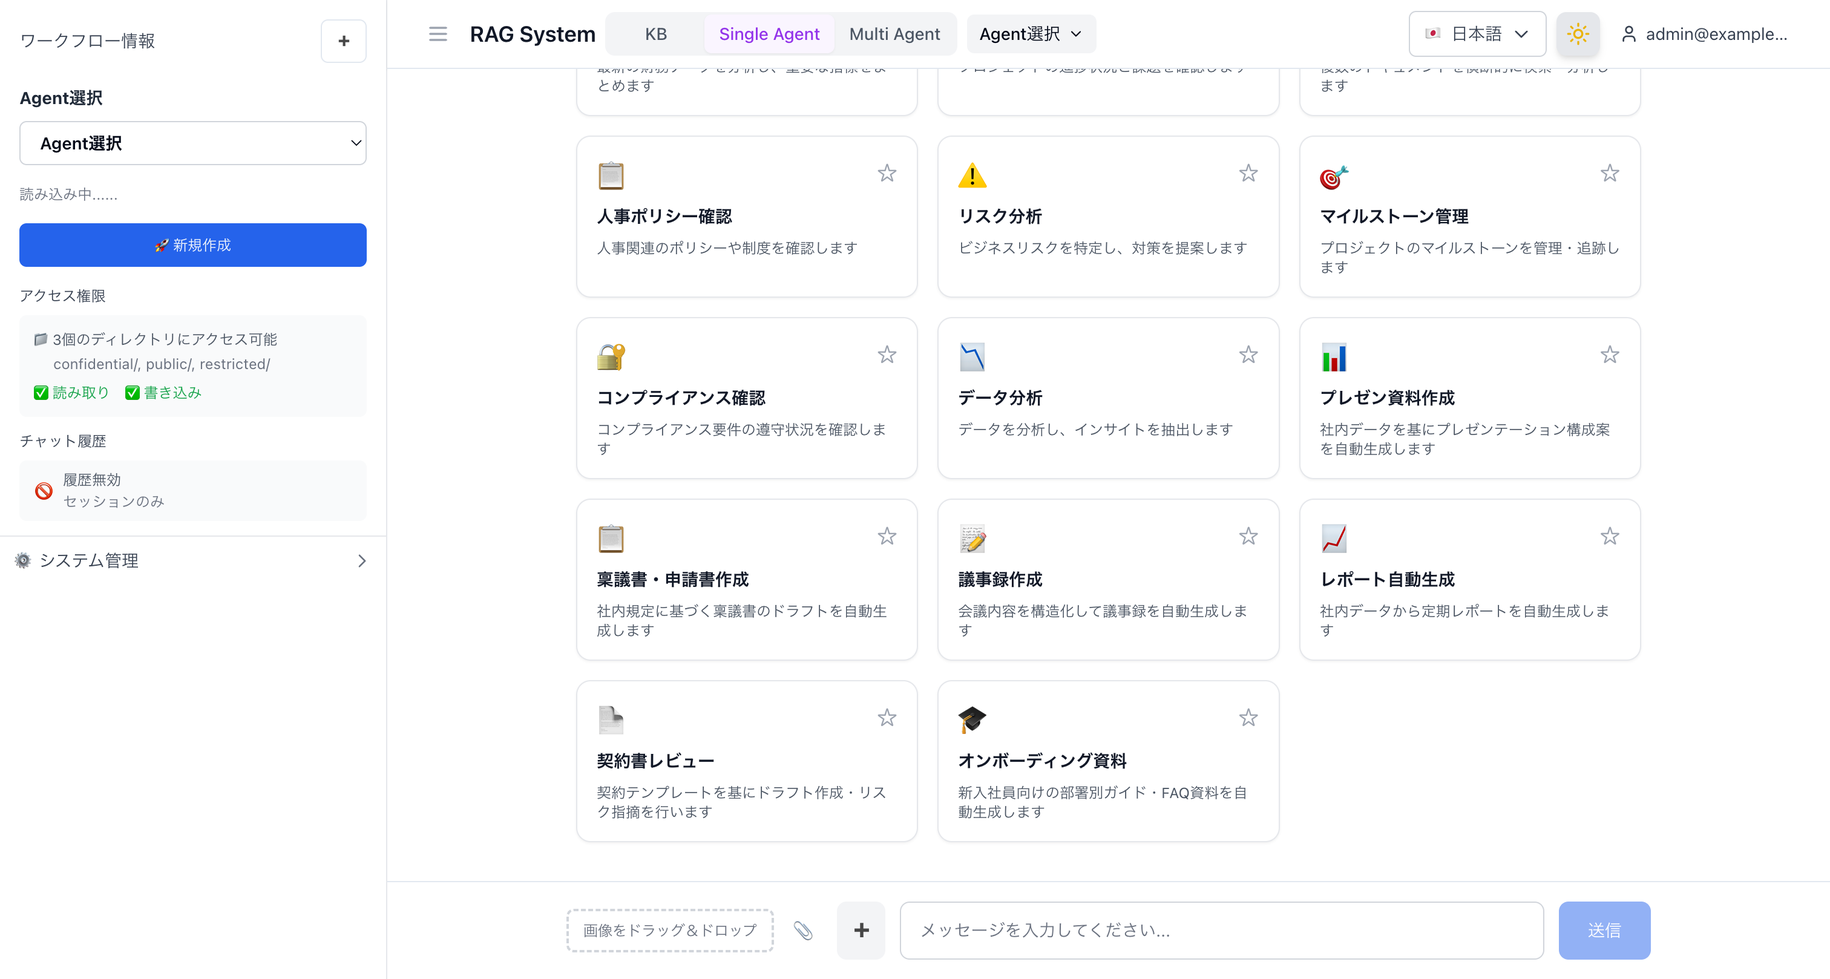
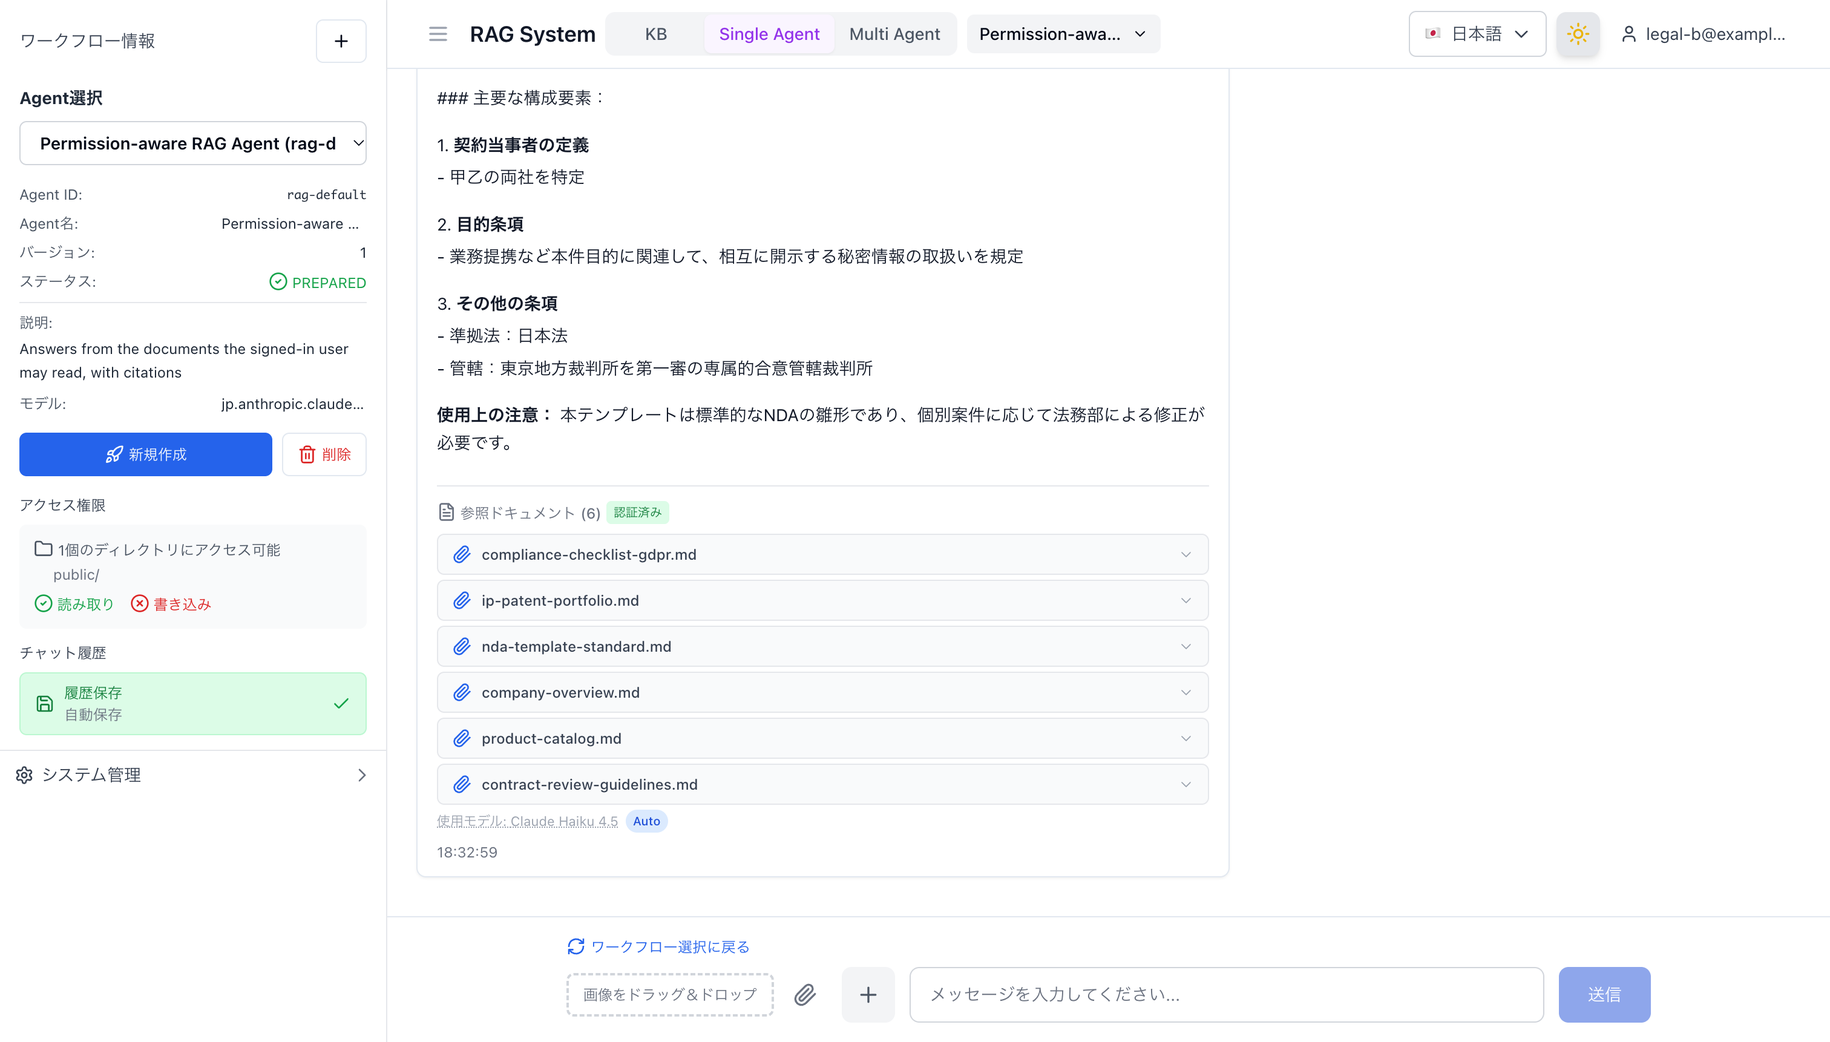
fix(agent): keep denied docs from the model; fix model IDs

diff --git a/docker/nextjs/src/lib/agent-backend/agentcore.ts b/docker/nextjs/src/lib/agent-backend/agentcore.ts
@@ -22,9 +22,10 @@ import {
   ScanCommand,
 } from '@aws-sdk/lib-dynamodb';
 import type { AgentTeamConfig, MultiAgentTraceResult } from '@/types/multi-agent';
+import { INFERENCE_PROFILE_MAP, resolveModelId } from '@/config/model-defaults';
 
 const REGION = process.env.BEDROCK_REGION || process.env.AWS_REGION || 'ap-northeast-1';
-export const DEFAULT_MODEL = 'apac.anthropic.claude-haiku-4-5-20251001-v1:0';
+export const DEFAULT_MODEL = 'jp.anthropic.claude-haiku-4-5-20251001-v1:0';
 const MAX_NAME = 100;
 const MAX_DESCRIPTION = 500;
 const MAX_INSTRUCTION = 8000;
@@ -234,7 +235,7 @@ export async function invokeAgent(params: {
       agent: {
         agentName: definition.agentName,
         instruction: definition.instruction,
-        foundationModel: definition.foundationModel,
+        foundationModel: runtimeModelId(definition.foundationModel),
         tools: definition.tools,
       },
       message: params.message,
@@ -243,6 +244,17 @@ export async function invokeAgent(params: {
     sessionId,
   );
   return { definition, result, sessionId };
+}
+
+/**
+ * The model ID the Runtime calls. Definitions keep what the user picked; templates and the
+ * editor offer base IDs (`anthropic.claude-haiku-4-5-...`), which have no on-demand
+ * throughput in ap-northeast-1 and fail with "The provided model identifier is invalid".
+ * Deprecated IDs are redirected first, then base IDs are mapped to their inference profile.
+ */
+export function runtimeModelId(id: string | undefined): string {
+  const { modelId } = resolveModelId(id || DEFAULT_MODEL);
+  return INFERENCE_PROFILE_MAP[modelId] ?? modelId;
 }
 
 async function defaultDefinition(): Promise<AgentDefinition | null> {
@@ -261,7 +273,7 @@ export async function invokeTeam(params: {
     agentName: c.agentName,
     role: c.role,
     instruction: c.instruction,
-    foundationModel: c.foundationModel || DEFAULT_MODEL,
+    foundationModel: runtimeModelId(c.foundationModel),
     tools: [...AVAILABLE_TOOLS],
   }));
   const result = await invokeRuntime(

diff --git a/docker/nextjs/src/__tests__/agent-backend/agentcore.test.ts b/docker/nextjs/src/__tests__/agent-backend/agentcore.test.ts
@@ -14,6 +14,7 @@ import {
   invokeAgent,
   invokeTeam,
   normalizeTools,
+  runtimeModelId,
   runtimeSessionId,
   toAgent,
   toSummary,
@@ -49,7 +50,7 @@ const stored: AgentDefinition = {
   agentId: 'agent-1',
   agentName: 'Legal reviewer',
   instruction: 'Review contracts.',
-  foundationModel: 'apac.anthropic.claude-haiku-4-5-20251001-v1:0',
+  foundationModel: 'jp.anthropic.claude-haiku-4-5-20251001-v1:0',
   tools: ['PermissionAwareSearch'],
   agentStatus: 'PREPARED',
   createdAt: '2026-11-14T00:00:00.000Z',
@@ -105,6 +106,11 @@ describe('definitions', () => {
 });
 
 describe('runtime', () => {
+  it('maps base model IDs from templates to the inference profile the runtime can call', () => {
+    expect(runtimeModelId('anthropic.claude-haiku-4-5-20251001-v1:0')).toBe('jp.anthropic.claude-haiku-4-5-20251001-v1:0');
+    expect(runtimeModelId('global.anthropic.claude-haiku-4-5-20251001-v1:0')).toBe('global.anthropic.claude-haiku-4-5-20251001-v1:0');
+    expect(runtimeModelId(undefined)).toBe('jp.anthropic.claude-haiku-4-5-20251001-v1:0');
+  });
   it('pads a session ID to the 33 characters AgentCore requires', () => {
     expect(runtimeSessionId('s', 'u').length).toBeGreaterThanOrEqual(33);
     const long = 'x'.repeat(40);

diff --git a/lambda/agent-tools/permission-search/__tests__/handler.test.ts b/lambda/agent-tools/permission-search/__tests__/handler.test.ts
@@ -74,6 +74,18 @@ describe('handler', () => {
     expect(kb.commandCalls(RetrieveCommand)[0].args[0].input.retrievalConfiguration?.vectorSearchConfiguration?.numberOfResults).toBe(15);
   });
 
+  it('does not reveal anything about denied documents (the response goes to the model)', async () => {
+    kb.on(RetrieveCommand).resolves({
+      retrievalResults: [doc('public.md', ['S-1-1-0']), doc('hr-salary-table.md', ['S-1-5-21-1-1200'])],
+    });
+    ddb.on(GetItemCommand).resolves({ Item: { userId: { S: 'u1' }, userSID: { S: 'S-1-1-0' } } });
+    const out = await handler({ query: 'salary', userId: 'u1' });
+    const serialized = JSON.stringify(out);
+    expect(serialized).not.toContain('hr-salary-table');
+    expect(serialized).not.toContain('S-1-5-21-1-1200');
+    expect(out.filterLog).toEqual({ filterMethod: 'SID_MATCHING' });
+  });
+
   it('denies everything for a user without an access record', async () => {
     kb.on(RetrieveCommand).resolves({ retrievalResults: [doc('public.md', ['S-1-1-0'])] });
     ddb.on(GetItemCommand).resolves({});

diff --git a/lib/constructs/agentcore-agents-construct.ts b/lib/constructs/agentcore-agents-construct.ts
@@ -49,7 +49,7 @@ export const SEARCH_TARGET_NAME = 'permission-search';
 export const SEARCH_TOOL_NAME = 'permission_aware_search';
 export const DEFAULT_AGENT_ID = 'rag-default';
 export const DEFAULT_TEAM_ID = 'rag-default-team';
-const DEFAULT_MODEL = 'apac.anthropic.claude-haiku-4-5-20251001-v1:0';
+const DEFAULT_MODEL = 'jp.anthropic.claude-haiku-4-5-20251001-v1:0';
 
 export class AgentCoreAgentsConstruct extends Construct {
   public readonly runtime: agentcore.Runtime;
@@ -153,7 +153,7 @@ export class AgentCoreAgentsConstruct extends Construct {
       actions: ['bedrock:InvokeModel', 'bedrock:InvokeModelWithResponseStream'],
       resources: [
         'arn:aws:bedrock:*::foundation-model/*',
-        // Cross-region inference profiles (apac.*, jp.*) resolve to models in other regions.
+        // Cross-region inference profiles (jp.*, apac.*, global.*) resolve to models in other regions.
         'arn:aws:bedrock:*:*:inference-profile/*',
       ],
     }));

diff --git a/lambda/agent-tools/permission-search/index.ts b/lambda/agent-tools/permission-search/index.ts
@@ -37,7 +37,8 @@ export interface SearchEvent {
 export interface SearchResult {
   results: { fileName: string; s3Uri: string; content: string; score?: number; rank: number }[];
   count: number;
-  filterLog: Record<string, unknown>;
+  /** Only `filterMethod`: nothing about denied documents reaches the model. */
+  filterLog: { filterMethod?: unknown; reason?: string };
   error?: string;
 }
 
@@ -99,6 +100,9 @@ export async function handler(event: SearchEvent): Promise<SearchResult> {
       rank: i + 1,
     })),
     count: limited.length,
-    filterLog,
+    // Only the method. The full filterLog lists every retrieved document, denied ones
+    // included (fileName, documentSIDs), and this object goes to the model: returning it
+    // would tell the model the names of documents the user may not read.
+    filterLog: { filterMethod: filterLog.filterMethod },
   };
 }

diff --git a/docker/agentcore-agent/tests/test_agent.py b/docker/agentcore-agent/tests/test_agent.py
@@ -99,6 +99,22 @@ class TestPermissionSearch:
             and search.calls[0]["filterMethod"] == "SID_MATCHING"
         )
 
+    def test_filter_details_never_reach_the_model(self):
+        # A tool response carrying denied document names must not pass them on.
+        client = FakeClient(
+            {
+                "results": [{"fileName": "allowed.md"}],
+                "count": 1,
+                "filterLog": {
+                    "filterMethod": "SID_MATCHING",
+                    "details": [{"fileName": "denied-secret.md", "matched": False}],
+                },
+            }
+        )
+        text = PermissionSearch(client, "legal-a@example.com").search("q")
+        assert "denied-secret.md" not in text
+        assert json.loads(text) == {"results": [{"fileName": "allowed.md"}], "count": 1}
+
     def test_the_model_facing_tool_has_no_user_parameter(self):
         search_tool = agents.make_search_tool(lambda q, n: "")
         properties = search_tool.tool_spec["inputSchema"]["json"]["properties"]

diff --git a/docker/agentcore-agent/gateway_client.py b/docker/agentcore-agent/gateway_client.py
@@ -113,7 +113,7 @@ class PermissionSearch:
         try:
             parsed = json.loads(text)
         except ValueError:
-            parsed = {}
+            return text
         self.calls.append(
             {
                 "query": query,
@@ -122,4 +122,12 @@ class PermissionSearch:
                 "filterMethod": (parsed.get("filterLog") or {}).get("filterMethod"),
             }
         )
-        return text
+        # The model gets the allowed documents and their count, nothing else: if the tool
+        # ever returned filter details again, they would not reach the model.
+        visible = {
+            "results": parsed.get("results", []),
+            "count": parsed.get("count", 0),
+        }
+        if parsed.get("error"):
+            visible["error"] = parsed["error"]
+        return json.dumps(visible, ensure_ascii=False)

diff --git a/docker/agentcore-agent/agents.py b/docker/agentcore-agent/agents.py
@@ -18,7 +18,7 @@ from typing import Any
 from strands import Agent, tool
 from strands.models import BedrockModel
 
-DEFAULT_MODEL = "apac.anthropic.claude-haiku-4-5-20251001-v1:0"
+DEFAULT_MODEL = "jp.anthropic.claude-haiku-4-5-20251001-v1:0"
 MAX_INSTRUCTION_CHARS = 8000
 
 SHARED_RULES = (

diff --git a/AGENTS.md b/AGENTS.md
@@ -159,7 +159,7 @@ bash scripts/verify-docker-image.sh permission-aware-rag-webapp:latest
 - **Permission metadata**: `.metadata.json` files are generated by service role only — SFTP users have IAM Deny for `*.metadata.json`
 - **Fail-closed RAG**: Documents without trusted metadata are excluded from retrieval
 - **AgentCore Runtime**: the agent Runtime (`docker/agentcore-agent`) is created by CDK (`AWS::BedrockAgentCore::Runtime`, built from the local Dockerfile as an arm64 asset). The Pipecat voice agent (`docker/pipecat-agent`) is still deployed via CLI/SDK
-- **Agent permission boundary**: the agents search through the `permission-search` Lambda behind a dedicated agent-tools Gateway (AWS_IAM, only the Runtime role may call it). The Lambda bundles `docker/nextjs/src/lib/rag-pipeline/sid-filter.ts`, so the web app and the agents share one SID filter. The model-visible tool has only `query` / `max_results`; `userId` comes from the session cookie in the web app, and a missing `userId` returns no documents (Fail-Closed). Do not add `userId` to the tool the model sees
+- **Agent permission boundary**: the agents search through the `permission-search` Lambda behind a dedicated agent-tools Gateway (AWS_IAM, only the Runtime role may call it). The Lambda bundles `docker/nextjs/src/lib/rag-pipeline/sid-filter.ts`, so the web app and the agents share one SID filter. The model-visible tool has only `query` / `max_results`; `userId` comes from the session cookie in the web app, and a missing `userId` returns no documents (Fail-Closed). Do not add `userId` to the tool the model sees. The tool response goes to the model, so it must not carry `sid-filter.ts`'s full `filterLog` (it lists denied documents by file name and SID); the Lambda returns only `filterMethod`, and `gateway_client.py` passes on only `results` and `count`. **[verified 2026-11-14 / ap-northeast-1]** the full log made the agent name two files the user could not read
 - **AgentCore Web Search (Option A — us-east-1 stack)**: Web Search Tool runs in **us-east-1 only**. When `enableWebSearch=true` (requires `enableAgentCoreGateway=true`), a dedicated `DemoWebSearchGatewayStack` is synthesized in us-east-1 using `crossRegionReferences`, creating the Gateway + Web Search target via `AwsCustomResource` with the **[verified 2026-06-18 / us-east-1]** connector shape (`mcp.connector.source.connectorId: "web-search"`, PoC §9.1). The Gateway URL is exported cross-region and injected into the ap-northeast-1 WebApp Lambda as `WEB_SEARCH_GATEWAY_URL` (mechanism C). The ap-northeast-1 `AgentCoreGateway` construct still emits a synth warning and does **not** host the target (region mismatch). Mechanism A (Claude Platform `callWithWebSearch` via `ENABLE_WEB_SEARCH`) remains region-agnostic and independent. The Option B PoC/teardown scripts lived in a local workspace and are **not shipped in this repository**; reproduce with `npx cdk deploy '*-WebSearchGateway' -c enableWebSearch=true -c enableAgentCoreGateway=true`.
 - **Policy+Guardrails Cedar (CORRECTED)**: The Policy Engine ships a baseline `permit(principal, action, resource)` for LOG_ONLY observation (verified Cedar syntax). The earlier `context.guardrails.evaluation` policy was fabricated and removed — that field does not exist; a non-matching permit + Cedar default-deny would deny ALL tool calls in ENFORCE. Author least-privilege per-tool Cedar policies (`AgentCore::Action::"Target___tool"`) and attach Guardrails via documented `policyConfiguration` before ENFORCE
 - **AgentCore Optimization (Preview)**: **[hypothesis]** `createConfigurationBundle` params via `AwsCustomResource` are **unverified** — inferred from the SDK shape, not confirmed against the service — opt-in only (`enableAgentOptimization=false` default). CDK provisions Config Bundle + IAM role; Recommendations/A/B tests run via agentcore CLI/SDK
@@ -437,6 +437,7 @@ Detects: internal IPs (10.x/172.16-31.x/192.168.x), AWS Account IDs, internal ho
 | cdk-nag `Found errors` blocks deploy | IAM wildcard without NagSuppression | Add NagSuppressions with `appliesTo` and documented reason. See demo-ai-stack.ts §cdk-nag suppressions |
 | Agent run returns 401 / 403 (agentcore) | No `session-token` cookie, or a request body `userId` that differs from the session user | The web app takes the user from the session only. Sign in again; do not pass another user's ID |
 | Agent created but runs fail with AccessDenied on InvokeAgentRuntime | WebApp Lambda role lacks `bedrock-agentcore:InvokeAgentRuntime` on the Runtime ARN **and** `<arn>/runtime-endpoint/*` | Both resources are granted by `demo-webapp-stack.ts`; check that `AGENT_RUNTIME_ARN` points at the deployed Runtime |
+| Agent run fails with `The provided model identifier is invalid` (agentcore) | A base model ID (templates use `anthropic.claude-haiku-4-5-...`) or an `apac.` profile that does not exist for the model in ap-northeast-1 | `runtimeModelId()` in `lib/agent-backend/agentcore.ts` maps IDs through `INFERENCE_PROFILE_MAP` at run time; add new models to that map. The default is `jp.anthropic.claude-haiku-4-5-20251001-v1:0` |
 | Agent Alias points to old model version (bedrock-agents) | Manual alias deletion causes CFn state drift | Use `update_agent_alias(routingConfiguration=[])` to auto-create new version |
 | Multi-Agent Collaborator uses old model (bedrock-agents) | Collaborator Alias routing pinned to v1 | Clear routing with `routingConfiguration=[]` (auto-creates latest version) |
 | CDK deploy fails with deleted Alias | CFn reads attributes of physically deleted aliases | Never manually delete CFn-managed aliases; use CDK for lifecycle |

diff --git a/CHANGELOG.md b/CHANGELOG.md
@@ -12,7 +12,7 @@ and this project adheres to [Semantic Versioning](https://semver.org/spec/v2.0.0
 - **`demo-data/scripts/load-industry-pack.sh`**: 業種別パックを S3 Access Point 経由で FSx for ONTAP に読み込み、Knowledge Base を同期し、各パックの部門 A と部門 B のデモユーザーを DynamoDB と Cognito に登録する。`--dry-run` で計画だけを表示する。2026-11-14 に 21 業種を ap-northeast-1 で読み込み、法務と金融で部門ごとの引用の違いを確認した（`docs/evaluation.md` 3.4）
 - **`scripts/check-industry-packs.py`**（`make industry-packs`、CI の `Industry Packs` ジョブ）: 業種カードとパックの 1 対 1、各文書のメタデータ、SID が README の一覧にあること、メールアドレス・IP・URL・エムダッシュがないことを検査する。`--selftest` 付き
 ### Changed
-- **Agent モードを Amazon Bedrock AgentCore に移行**（既定 `agentBackend=agentcore`）。エージェントの作成・編集・削除は DynamoDB `${prefix}-agent-definitions` への書き込みになり、実行は 1 つの汎用 AgentCore Runtime（`docker/agentcore-agent/`、Python 3.12 / Strands Agents / arm64、CDK がビルド）への `InvokeAgentRuntime` になった。文書検索は Agent 専用の AgentCore Gateway（AWS_IAM）の Lambda ターゲット `permission-search` だけを通り、KB モードと同じ `sid-filter.ts` を同梱する。モデルが見るツールの引数は `query` と `max_results` だけで、`userId` は WebApp がセッション Cookie から取る（本文の `userId` が違えば 403、セッション無しは 401、`userId` 無しは文書 0 件）。マルチエージェントは Strands の agents-as-tools。モデル変更は定義の書き換えだけになった。`/api/bedrock/*` の応答の形は変えていないので画面は同じ。初回デプロイで `rag-default` と `rag-default-team` を登録する
+- **Agent モードを Amazon Bedrock AgentCore に移行**（既定 `agentBackend=agentcore`）。エージェントの作成・編集・削除は DynamoDB `${prefix}-agent-definitions` への書き込みになり、実行は 1 つの汎用 AgentCore Runtime（`docker/agentcore-agent/`、Python 3.12 / Strands Agents / arm64、CDK がビルド）への `InvokeAgentRuntime` になった。文書検索は Agent 専用の AgentCore Gateway（AWS_IAM）の Lambda ターゲット `permission-search` だけを通り、KB モードと同じ `sid-filter.ts` を同梱する。モデルが見るツールの引数は `query` と `max_results` だけで、`userId` は WebApp がセッション Cookie から取る（本文の `userId` が違えば 403、セッション無しは 401、`userId` 無しは文書 0 件）。マルチエージェントは Strands の agents-as-tools。モデル変更は定義の書き換えだけになった。`/api/bedrock/*` の応答の形は変えていないので画面は同じ。初回デプロイで `rag-default` と `rag-default-team` を登録する。2026-11-14 に ap-northeast-1 で、単一エージェント・チーム実行・作成から削除まで・部門ごとの検索結果の違い・403 / 401 を確かめた（`docs/evaluation.md` 3.5）。その確認で、検索ツールの応答が許可されなかった文書のファイル名をモデルに渡していた不具合、既定のモデル ID が ap-northeast-1 で無効だった不具合、テンプレートの基盤モデル ID で実行が失敗する不具合を直した
 - **旧バックエンド**: `-c agentBackend=bedrock-agents` で以前の `CfnAgent` + Action Group を作る。1 リリースだけ残し、次のリリースで削除する。旧バックエンドで作ったエージェントは移らないので、Agent Directory で作り直す。不正な値は synth 時に throw する
 - `enableAgentCoreMemory` を `enableAgent` の条件から外し、独立したフラグにした（作るリソースは同じ）
 - CI の synth 行列に `agent-bedrock-agents-legacy` レーンを追加。Python テストの行列と `make test-python` に `docker/agentcore-agent` を追加

diff --git a/docs/en/evaluation.md b/docs/en/evaluation.md
@@ -201,6 +201,27 @@ The documents that were not allowed were retrieved and then removed by the filte
 
 **Defect found and fixed in this check**: the citation badge labelled documents allowed to a department and Domain Admins (`[dept, -512]`) as admin-only, because it only checked whether `-512` appeared. It now shows admin-only only when Domain Admins is the sole group. The Knowledge Base returns the SIDs as quoted strings (`"\"S-1-1-0\""`), so the SIDs are extracted by pattern rather than by splitting.
 
+### 3.5 Results in Agent mode (AgentCore Runtime)
+
+**[verified 2026-11-14 / ap-northeast-1]** The stack was deployed with `-c enableAgent=true -c enableMultiAgent=true` (default `agentBackend=agentcore`), the legal pack from 3.4 was loaded, and Agent mode was checked. The volume is the same kind of disposable volume as 3.3. The agents run on one generic AgentCore Runtime, and search goes through the `permission-search` Lambda behind the agents' own AgentCore Gateway ([Implementation Overview, section 8](implementation-overview.md#8-agent-mode--permission-aware-agentic-ai-on-amazon-bedrock-agentcore)). The CDK deployment of the 6 stacks took 891 seconds.
+
+| What was checked | Principal (group) | Result |
+|---|---|---|
+| Single agent, "the key points of the GDPR checklist and the standard NDA template" | Legal pack, legal department (`-4100`) | 200, 14 s. Answered from `compliance-checklist-gdpr.md` and `nda-template-standard.md` |
+| The same question | Legal pack, development department (`-1100`) | 200, 14 s. Said neither document was found and cited only the public `contract-review-guidelines.md` |
+| Team run (retrieval, analysis and output agents), "summarize the GDPR checklist in 3 lines" | Legal department (`-4100`) | 200, 24 s. All 3 agents completed, citing `compliance-checklist-gdpr.md` |
+| Create, edit (model changed to a `global.` inference profile), run and delete an agent | Legal department (`-4100`) | Create took 111 ms, and the status was `PREPARED` immediately. The edit applied from the next run; after deletion the list held only `rag-default` |
+| A request body `userId` that differs from the session | A legal-department session, with the development user's `userId` in the body | 403 (`userId does not match the signed-in user`) |
+| No session | Not signed in | 401 (`Not signed in`) |
+
+**Scope**: one observation each, for the two departments of the legal pack only. The team-run screen shows 0 for each collaborator's time and token count, because the Runtime does not return per-collaborator values; this is fixed together with the move of run traces.
+
+**Defects found and fixed in this check**:
+
+- The default model `apac.anthropic.claude-haiku-4-5-20251001-v1:0` is invalid in ap-northeast-1, and the first run failed with `The provided model identifier is invalid`. It is now the `jp.` inference profile, which is valid in ap-northeast-1
+- The search tool's response carried the SID filter log, which lists every retrieved document with its file name and SIDs, including the documents that were not allowed. The answer to the development-department user named the two files that user cannot read. The tool now returns only `filterMethod`, and the agent passes the model only the allowed documents and their count
+- Agents created from a template carry a base model ID (`anthropic.claude-haiku-4-5-20251001-v1:0`), and their runs failed. The ID is now converted to the inference profile at run time (the same table KB mode uses)
+
 ---
 
 ## 4. Agent Evaluation Metrics
